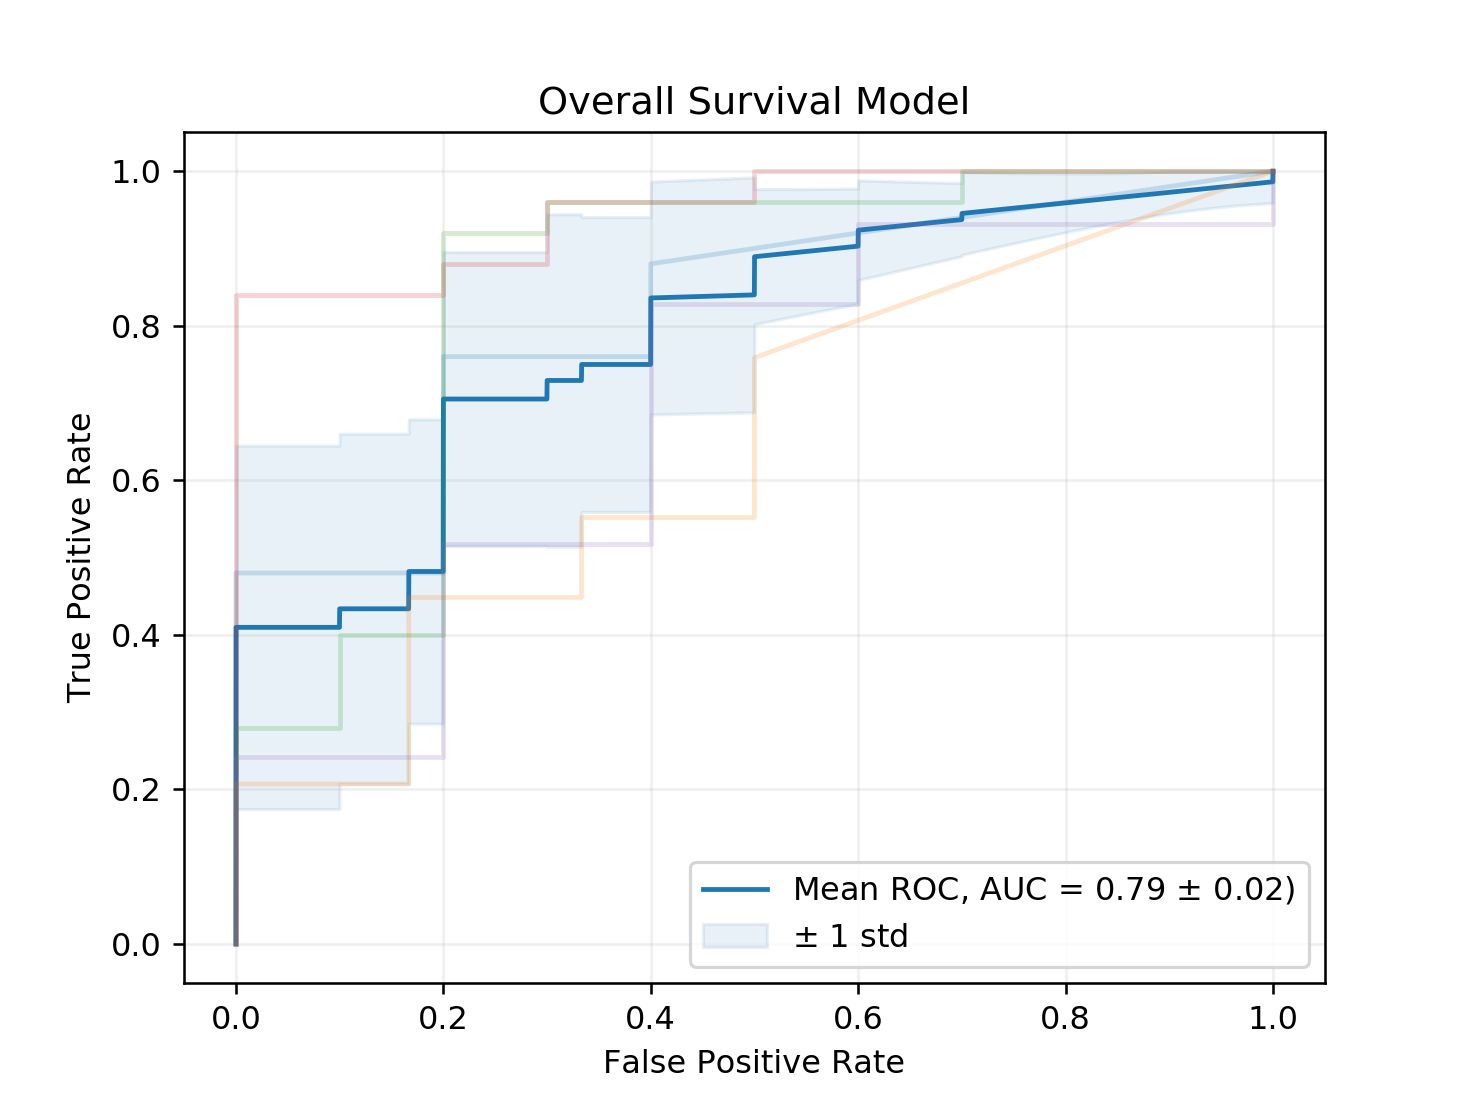
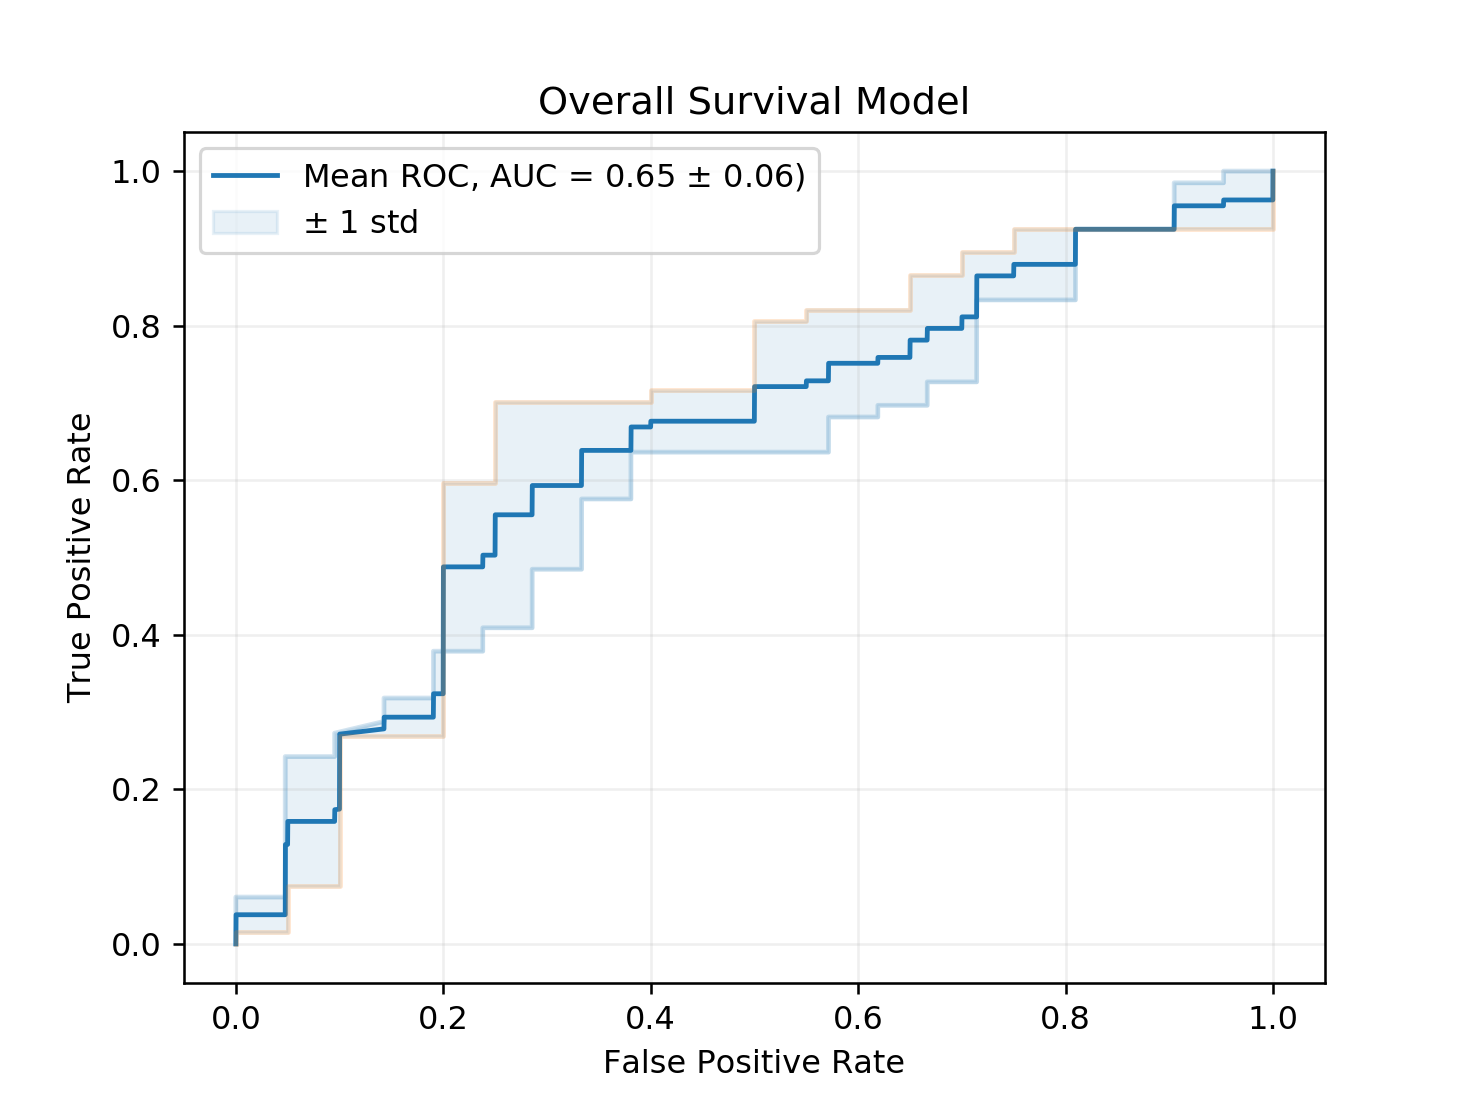
Migrating to Sherlock

Changed region(s): [[0.125, 0.1232, 0.875, 0.8623], [0.4688, 0.7699, 0.9062, 0.8931], [0.5625, 0.3696, 0.5938, 0.4004]]

diff --git a/LSUV.py b/LSUV.py
@@ -1,0 +1,152 @@
+from __future__ import print_function
+import numpy as np
+import torch
+import torch.nn.init
+import torch.nn as nn
+
+gg = {}
+gg['hook_position'] = 0
+gg['total_fc_conv_layers'] = 0
+gg['done_counter'] = -1
+gg['hook'] = None
+gg['act_dict'] = {}
+gg['counter_to_apply_correction'] = 0
+gg['correction_needed'] = False
+gg['current_coef'] = 1.0
+
+# Orthonorm init code is taked from Lasagne
+# https://github.com/Lasagne/Lasagne/blob/master/lasagne/init.py
+def svd_orthonormal(w):
+    shape = w.shape
+    if len(shape) < 2:
+        raise RuntimeError("Only shapes of length 2 or more are supported.")
+    flat_shape = (shape[0], np.prod(shape[1:]))
+    a = np.random.normal(0.0, 1.0, flat_shape)#w;
+    u, _, v = np.linalg.svd(a, full_matrices=False)
+    q = u if u.shape == flat_shape else v
+    print (shape, flat_shape)
+    q = q.reshape(shape)
+    return q.astype(np.float32)
+
+def store_activations(self, input, output):
+    gg['act_dict'] = output.data.cpu().numpy();
+    #print('act shape = ', gg['act_dict'].shape)
+    return
+
+
+def add_current_hook(m):
+    if gg['hook'] is not None:
+        return
+    if (isinstance(m, nn.Conv2d)) or (isinstance(m, nn.Linear)):
+        #print 'trying to hook to', m, gg['hook_position'], gg['done_counter']
+        if gg['hook_position'] > gg['done_counter']:
+            gg['hook'] = m.register_forward_hook(store_activations)
+            #print ' hooking layer = ', gg['hook_position'], m
+        else:
+            #print m, 'already done, skipping'
+            gg['hook_position'] += 1
+    return
+
+def count_conv_fc_layers(m):
+    if (isinstance(m, nn.Conv2d)) or (isinstance(m, nn.Linear)):
+        gg['total_fc_conv_layers'] +=1
+    return
+
+def remove_hooks(hooks):
+    for h in hooks:
+        h.remove()
+    return
+def orthogonal_weights_init(m):
+    if isinstance(m, nn.Conv2d) or isinstance(m, nn.Linear):
+        if hasattr(m, 'weight_v'):
+            w_ortho = svd_orthonormal(m.weight_v.data.cpu().numpy())
+            m.weight_v.data = torch.from_numpy(w_ortho)
+            try:
+                nn.init.constant(m.bias, 0)
+            except:
+                pass
+        else:
+            #nn.init.orthogonal(m.weight)
+            w_ortho = svd_orthonormal(m.weight.data.cpu().numpy())
+            #print w_ortho 
+            #m.weight.data.copy_(torch.from_numpy(w_ortho))
+            m.weight.data = torch.from_numpy(w_ortho)
+            try:
+                nn.init.constant(m.bias, 0)
+            except:
+                pass
+    return
+
+def apply_weights_correction(m):
+    if gg['hook'] is None:
+        return
+    if not gg['correction_needed']:
+        return
+    if (isinstance(m, nn.Conv2d)) or (isinstance(m, nn.Linear)):
+        if gg['counter_to_apply_correction'] < gg['hook_position']:
+            gg['counter_to_apply_correction'] += 1
+        else:
+            if hasattr(m, 'weight_g'):
+                m.weight_g.data *= float(gg['current_coef'])
+                #print m.weight_g.data
+                #print m.weight_v.data
+                #print 'weights norm after = ', m.weight.data.norm()
+                gg['correction_needed'] = False
+            else:
+                #print 'weights norm before = ', m.weight.data.norm()
+                m.weight.data *= gg['current_coef']
+                #print 'weights norm after = ', m.weight.data.norm()
+                gg['correction_needed'] = False
+            return
+    return
+
+def LSUVinit(model,data, needed_std = 1.0, std_tol = 0.1, max_attempts = 10, do_orthonorm = True, cuda = False):
+
+    cuda = data.is_cuda
+    model.eval();
+    if cuda:
+        model = model.cuda()
+        data = data.cuda()
+    else:
+        model = model.cpu()
+        data = data.cpu() 
+    print( 'Starting LSUV')
+    model.apply(count_conv_fc_layers)
+    print ('Total layers to process:', gg['total_fc_conv_layers'])
+    if do_orthonorm:
+        model.apply(orthogonal_weights_init)
+        print ('Orthonorm done')
+        if cuda:
+            model = model.cuda()
+    for layer_idx in range(gg['total_fc_conv_layers']):
+        print (layer_idx)
+        model.apply(add_current_hook)
+        out = model(data)
+        current_std = gg['act_dict'].std()
+        print ('std at layer ',layer_idx, ' = ', current_std)
+        #print  gg['act_dict'].shape
+        attempts = 0
+        while (np.abs(current_std - needed_std) > std_tol):
+            gg['current_coef'] =  needed_std / (current_std  + 1e-8);
+            gg['correction_needed'] = True
+            model.apply(apply_weights_correction)
+            if cuda:
+                model = model.cuda()
+            out = model(data)
+            current_std = gg['act_dict'].std()
+            print ('std at layer ',layer_idx, ' = ', current_std, 'mean = ', gg['act_dict'].mean())
+            attempts+=1
+            if attempts > max_attempts:
+                print ('Cannot converge in ', max_attempts, 'iterations')
+                break
+        if gg['hook'] is not None:
+           gg['hook'].remove()
+        gg['done_counter']+=1
+        gg['counter_to_apply_correction'] = 0
+        gg['hook_position'] = 0
+        gg['hook']  = None
+        print ('finish at layer',layer_idx )
+    print ('LSUV init done!')
+    if not cuda:
+        model = model.cpu()
+    return model

diff --git a/train.py b/train.py
@@ -2,20 +2,18 @@ import torch
 import pdb
 import copy
 import numpy as np
+from LSUV import LSUVinit
 from model import *
 from utils import *
 
 
-
 # Training Parameters
-k = 5				# Groups for k-fold validation
-width = 512 		# Width of model
-epochs = 5000		# Training epochs for each fold
-L2 = 1e-3
-L1 = 1e-3
-
-#width = 128 		# Width of model
-#epochs = 1000		# Training epochs for each fold
+k = 3				# Groups for k-fold validation
+width = 128			# Width of model
+epochs = 4000		# Training epochs for each fold
+L2 = 1e-3			# L2 Regularization
+L1 = 1e-3			# L1 Regularization
+LR = 1e-3			# Learning Rate
 
 # Loading preprocessed data and splitting
 Data = np.load("Data.npz")
@@ -30,22 +28,35 @@ spec_cals = []
 over_rocs = []
 over_cals = []
 
+model = Model(width)
+
 # K-fold validation
 for i in range(k):
 
-	# Build k-th models
-	spec_model = Model(width)
-	spec_optim = torch.optim.Adam(spec_model.parameters(), lr = 3e-4, weight_decay = L1)
-	over_model = copy.deepcopy(spec_model)
-	over_optim = torch.optim.Adam(over_model.parameters(), lr = 3e-4, weight_decay = L1)
+	# Build models
+	#spec_model = Model(width)
+	
 
 	# Build Specific train/test set
 	spec_xtrain, spec_strain, spec_ptrain, spec_xtest, spec_stest, spec_ptest = train_and_test_set(Data, spec, groups1, i, k)
 	best_spec = 0
-LD_FLAGS=-lpmi2 USE_CUDA=0 USE_OPENMP=1 USE_GASNET=1 USE_HDF=1 CC=gcc CXX=g++ MAX_DIM=8 ./scripts/setup_env.py --llvm-version 60s
 
 	print(f'Training Disease Specific Survival Model #{i} ')
 	for epoch in range(epochs):
+
+		if epoch == 0 and i == 0:
+			model = LSUVinit(model, spec_xtrain, needed_std = 1.0)
+			spec_model = copy.deepcopy(model)
+			over_model = copy.deepcopy(model)
+			spec_optim = torch.optim.Adam(spec_model.parameters(), lr = LR, weight_decay = L1)
+			over_optim = torch.optim.Adam(over_model.parameters(), lr = LR, weight_decay = L1)
+		elif epoch == 0:
+			spec_model = copy.deepcopy(model)
+			spec_optim = torch.optim.Adam(spec_model.parameters(), lr = LR, weight_decay = L1)
+			over_model = copy.deepcopy(model)
+			over_optim = torch.optim.Adam(over_model.parameters(), lr = LR, weight_decay = L1)
+
+
 
 		# Gather output for train and test set
 		spec_prob, spec_pred = spec_model(spec_xtrain)
@@ -62,8 +73,7 @@ LD_FLAGS=-lpmi2 USE_CUDA=0 USE_OPENMP=1 USE_GASNET=1 USE_HDF=1 CC=gcc CXX=g++ MA
 		spec_optim.step()
 		spec_optim.zero_grad()
 	print(f'Best Specific Model has test AUC = {best_spec:.3f}')
-		
-		
+	
 
 	# Build Overall train/test set and train
 
@@ -74,6 +84,7 @@ LD_FLAGS=-lpmi2 USE_CUDA=0 USE_OPENMP=1 USE_GASNET=1 USE_HDF=1 CC=gcc CXX=g++ MA
 
 	print(f'Training Overall Survival Model #{i}')
 	for epoch in range(epochs):
+
 
 		# Gather output for train and test set
 		over_prob, over_pred = over_model(over_xtrain)

diff --git a/utils.py b/utils.py
@@ -84,10 +84,11 @@ def AUCplot(spec_model, over_model, spec_xtest, over_xtest, yspec, yover, spec_r
 	over_rocs.append([fpr_over, tpr_over])
 
 	# Generate Calibration Curves
-	N = 10
-	spec_cal  = calibration_curve(yspec.data.numpy(), probspec.data.numpy(), n_bins=N)
-	over_cal  = calibration_curve(yspec.data.numpy(), probspec.data.numpy(), n_bins=N)
-	assert((len(spec_cal[1])==N) and (len(over_cal[1])==N))
+	N = 4
+	strategy = 'uniform'
+	spec_cal  = calibration_curve(yspec.data.numpy(), probspec.data.numpy(), n_bins=N, strategy=strategy)
+	over_cal  = calibration_curve(yspec.data.numpy(), probspec.data.numpy(), n_bins=N, strategy=strategy)
+	assert ((len(spec_cal[1])==N) and (len(over_cal[1])==N)), f'len is {len(spec_cal[1])}, {len(over_cal[1])} not {N}'
 	spec_cals.append(spec_cal)
 	over_cals.append(over_cal)
 

diff --git a/model.py b/model.py
@@ -49,8 +49,8 @@ class Model(nn.Module):
 		x = self.trunk(x)
 
 		#prob = SoftClamp(self.prob(x), self.iter)
-		#prob = torch.sigmoid(self.prob(x))[:,0]
-		prob = self.prob(x)[:,0].clamp(0,1)
+		prob = torch.sigmoid(self.prob(x))[:,0]
+		#prob = self.prob(x)[:,0].clamp(0,1)
 		pred = SoftLeaky(self.pred(x), self.iter)[:,0]
 
 		self.iter += 1
